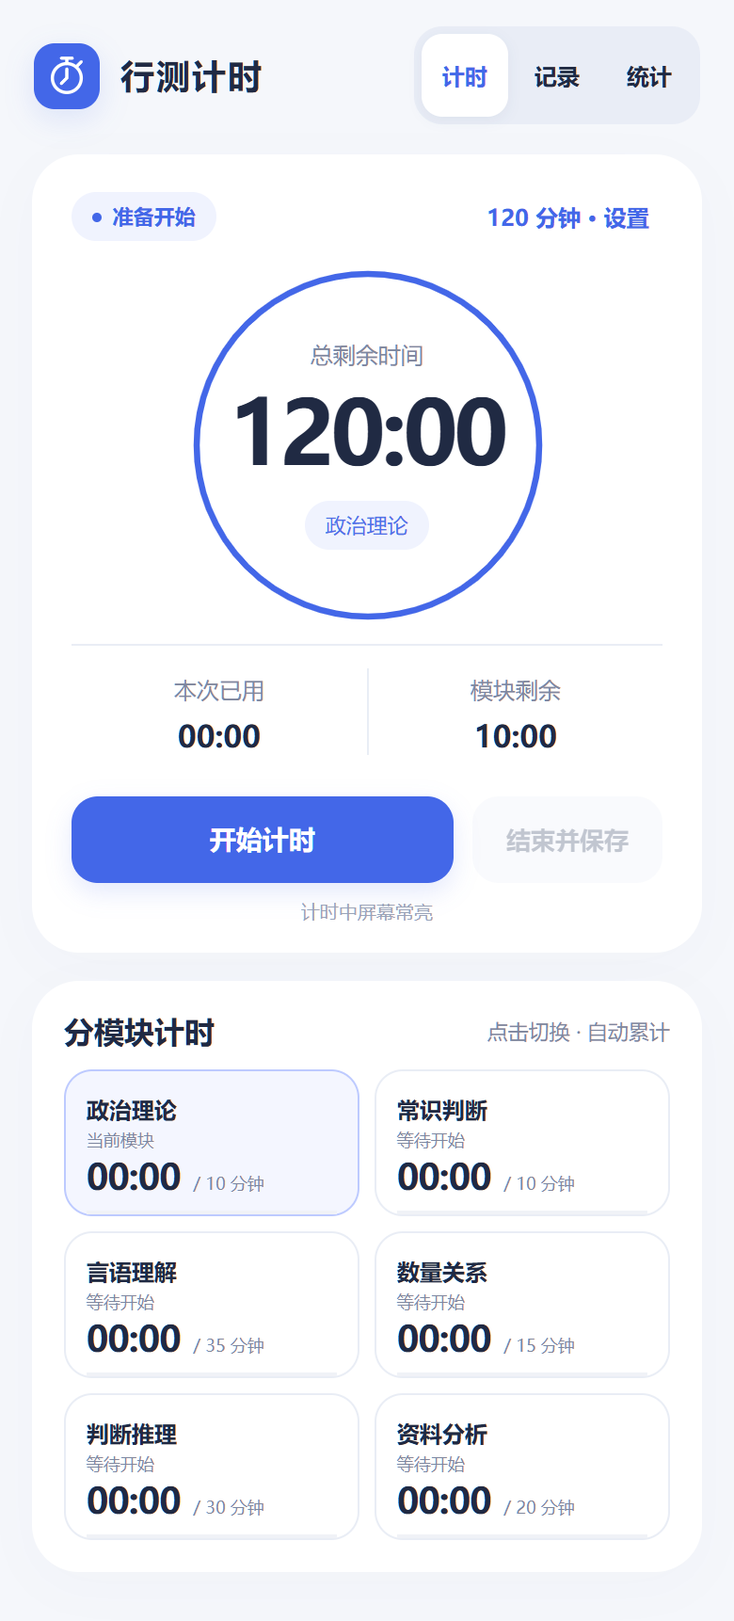
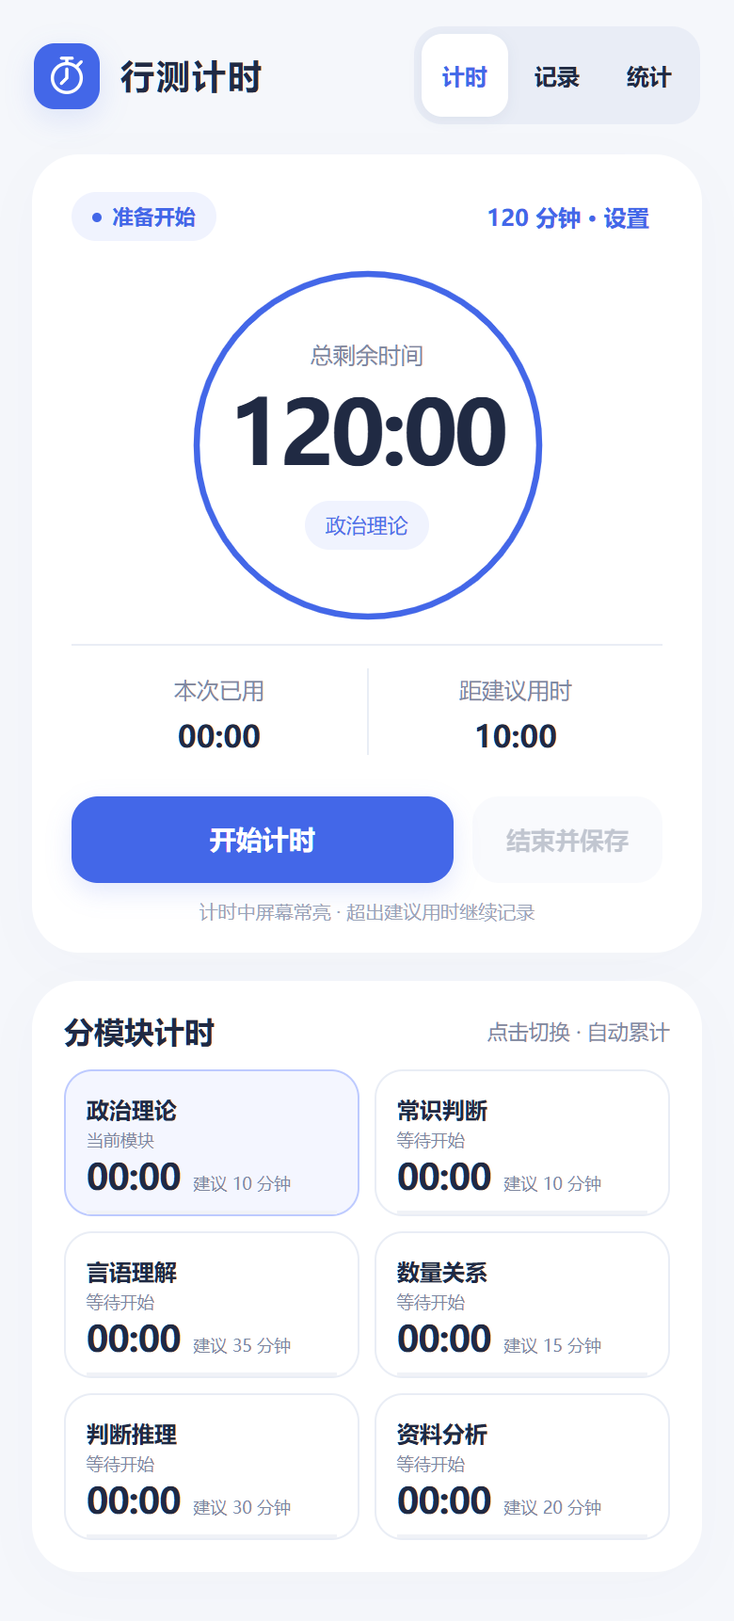
Fix Android safe area, expose history deletion and clarify overtime timing

diff --git a/app/src/main/assets/index.html b/app/src/main/assets/index.html
@@ -6,14 +6,14 @@
 @media(max-width:699px){header{padding:19px 18px 15px}.brand b{font-size:18px}.brand small{font-size:9px}.mark{width:35px;height:35px;border-radius:11px}.nav button{padding:6px 11px;font-size:12px}.nav svg{display:none}main{padding:2px 17px 26px}.page-heading{margin:8px 0 15px}.page-heading h1{font-size:22px}.layout{grid-template-columns:1fr;gap:15px}.timer-card{padding:19px 20px 16px}.dial{width:245px;margin:9px 0 8px}.time{font-size:55px}.timer-bottom{padding:12px 0}.timer-bottom strong{font-size:16px}.hint{margin-top:11px}.modules-card{padding:19px 16px}.section-head{margin-bottom:14px}.module-list{grid-template-columns:repeat(2,minmax(0,1fr));gap:9px}.module{grid-template-columns:1fr auto;padding:12px 11px 11px;gap:4px;min-height:101px}.module .number{display:none}.module b{grid-column:1/-1;font-size:12px}.module small{font-size:9px;margin-top:4px}.module .value{grid-column:1/-1;text-align:left;font-size:21px;margin-top:3px}.module .value small{display:inline;margin-left:7px;font-size:9px}.module .bar{left:11px;right:11px}.chart-layout{grid-template-columns:1fr;gap:15px;padding:25px}.pie-wrap{max-width:230px}.legend-row{padding:12px 0}.stats-summary{gap:10px}.stat{padding:18px}.stat strong{font-size:25px}.detail-meta{gap:22px;padding:20px}.detail-meta strong{font-size:18px}.record{padding:18px}.record .record-time{font-size:21px}.record-right{gap:8px}}
 @media(max-width:350px){header{padding-left:13px;padding-right:13px}.brand small{display:none}.nav button{padding:6px 9px}.brand b{font-size:16px}main{padding-left:12px;padding-right:12px}.time{font-size:50px}.module .value small{display:block;margin-left:0}}
 @media(prefers-reduced-motion:reduce){*{transition:none!important}}
-@media(max-width:699px){header{padding-top:14px;padding-bottom:14px}.brand small{display:none}#timer>.page-heading{display:none}.timer-card{padding:16px 20px 14px}.timer-top .text-button{min-height:32px}.dial{width:195px;height:195px;margin:8px 0}.time{font-size:47px;letter-spacing:-2px}.dial-center .badge{margin-top:8px}.timer-label{margin-bottom:5px}.module{min-height:76px;padding:9px 11px 8px;gap:1px}.module b{font-size:12px}.module .value{font-size:19px;margin-top:1px}.module small{font-size:9px;margin-top:2px}.modules-card{padding:16px}.section-head{margin-bottom:10px}.module-list{gap:8px}.hint{margin-top:9px}}.eyebrow{display:none}.brand small:empty{display:none}</style></head><body>
+@media(max-width:699px){header{padding-top:14px;padding-bottom:14px}.brand small{display:none}#timer>.page-heading{display:none}.timer-card{padding:16px 20px 14px}.timer-top .text-button{min-height:32px}.dial{width:195px;height:195px;margin:8px 0}.time{font-size:47px;letter-spacing:-2px}.dial-center .badge{margin-top:8px}.timer-label{margin-bottom:5px}.module{min-height:76px;padding:9px 11px 8px;gap:1px}.module b{font-size:12px}.module .value{font-size:19px;margin-top:1px}.module small{font-size:9px;margin-top:2px}.modules-card{padding:16px}.section-head{margin-bottom:10px}.module-list{gap:8px}.hint{margin-top:9px}}.eyebrow{display:none}.brand small:empty{display:none}.record-entry{display:grid;grid-template-columns:minmax(0,1fr)44px;align-items:center;background:white;border-radius:18px;padding-right:10px}.record{min-width:0}.record>div:first-child{min-width:0}.record h3{overflow:hidden;text-overflow:ellipsis;white-space:nowrap}.record-right{flex-shrink:0;margin-left:10px}.record-delete{color:var(--red);font-size:12px;min-height:48px;border-radius:10px}.record-delete:active{background:#fff0f3}@media(max-width:350px){.record{padding:15px 12px}.record .record-time{font-size:18px}.record p{font-size:10px}}</style></head><body>
 <header><div class="brand"><div class="mark" id="brand-icon"></div><div><b>行测计时</b><small></small></div></div><nav class="nav" aria-label="主导航"><button data-page="timer" class="active">计时</button><button data-page="history">记录</button><button data-page="stats">统计</button></nav></header>
 <main>
 <section id="timer" class="page active"><div class="page-heading"><div><div class="eyebrow">FOCUS TIMER</div><h1>模考计时</h1></div></div>
 <div class="layout"><div class="card timer-card"><div class="timer-top"><span class="badge" id="status"><i class="dot"></i><span>准备开始</span></span><button class="text-button" id="settings">120 分钟 · 设置</button></div>
 <div class="dial"><svg viewBox="0 0 300 300" aria-hidden="true"><circle class="track" cx="150" cy="150" r="140"/><circle class="progress" id="progress" cx="150" cy="150" r="140" stroke-dasharray="879.646" stroke-dashoffset="0"/></svg><div class="dial-center"><span class="timer-label" id="remaining-label">总剩余时间</span><div class="time" id="remaining">120:00</div><span class="badge" id="current-module">政治理论</span></div></div>
-<div class="timer-bottom"><div><span class="sub">本次已用</span><strong id="elapsed">00:00</strong></div><div><span class="sub" id="module-label">模块剩余</span><strong id="module-remaining">10:00</strong></div></div>
-<div class="controls"><button id="toggle" class="primary">开始计时</button><button id="finish" class="secondary" disabled>结束并保存</button></div><div class="hint" id="screen-hint">计时中屏幕常亮</div></div>
+<div class="timer-bottom"><div><span class="sub">本次已用</span><strong id="elapsed">00:00</strong></div><div><span class="sub" id="module-label">距建议用时</span><strong id="module-remaining">10:00</strong></div></div>
+<div class="controls"><button id="toggle" class="primary">开始计时</button><button id="finish" class="secondary" disabled>结束并保存</button></div><div class="hint" id="screen-hint">计时中屏幕常亮 · 超出建议用时继续记录</div></div>
 <div class="card modules-card"><div class="section-head"><h2>分模块计时</h2><span>点击切换 · 自动累计</span></div><div class="module-list" id="modules"></div></div></div></section>
 <section id="history" class="page"><div class="page-heading"><div><div class="eyebrow">YOUR SESSIONS</div><h1>做题记录</h1></div><span class="sub" id="history-count"></span></div><div id="records"></div></section>
 <section id="stats" class="page"><div class="page-heading"><div><div class="eyebrow">TIME INSIGHTS</div><h1>用时统计</h1></div></div><div id="stats-content"></div></section>
@@ -58,12 +58,12 @@ document.querySelectorAll('[data-module]').forEach(e=>e.onclick=()=>action('sele
 function refresh(){
  const s=read(),spent=sum(s.spent),remaining=sum(s.budgets)-spent,m=s.budgets[s.active]-s.spent[s.active];
  $('remaining').textContent=fmt(Math.abs(remaining),remaining>=0);$('remaining').classList.toggle('overtime',remaining<0);$('remaining-label').textContent=remaining<0?'总超时时间':'总剩余时间';
- $('elapsed').textContent=fmt(spent);$('module-remaining').textContent=fmt(Math.abs(m),m>=0);$('module-remaining').classList.toggle('overtime',m<0);$('module-label').textContent=m<0?'模块超时':'模块剩余';
+ $('elapsed').textContent=fmt(spent);$('module-remaining').textContent=fmt(Math.abs(m),m>=0);$('module-remaining').classList.toggle('overtime',m<0);$('module-label').textContent=m<0?'超出建议用时':'距建议用时';
  $('current-module').textContent=names[s.active];$('current-module').style.color=colors[s.active];
  $('progress').style.strokeDashoffset=879.646*Math.min(1,Math.max(0,spent/sum(s.budgets)));$('progress').style.stroke=remaining<0?'var(--red)':'var(--blue)';
  $('status').classList.toggle('running',s.running);$('status').lastElementChild.textContent=s.running?'专注计时中':s.startedAt?'已暂停':'准备开始';
  $('toggle').textContent=s.running?'暂停计时':s.startedAt?'继续计时':'开始计时';$('finish').disabled=!s.startedAt;$('settings').textContent=`${sum(s.budgets)/60000} 分钟 · 设置`;$('settings').disabled=!!s.startedAt;
- names.forEach((n,i)=>{const selected=s.active===i;const el=document.querySelector(`[data-module="${i}"]`);el.classList.toggle('selected',selected);el.setAttribute('aria-pressed',String(selected));$('time-'+i).textContent=fmt(s.spent[i]);$('budget-'+i).textContent=`/ ${s.budgets[i]/60000} 分钟`;$('bar-'+i).style.width=Math.min(100,s.spent[i]/s.budgets[i]*100)+'%';$('module-state-'+i).textContent=selected?(s.running?'正在计时':s.startedAt?'当前模块 · 已暂停':'当前模块'):s.spent[i]>0?'已记录 · 可继续':'等待开始';$('time-'+i).classList.toggle('overtime',s.spent[i]>s.budgets[i]);});
+ names.forEach((n,i)=>{const selected=s.active===i;const el=document.querySelector(`[data-module="${i}"]`);el.classList.toggle('selected',selected);el.setAttribute('aria-pressed',String(selected));$('time-'+i).textContent=fmt(s.spent[i]);$('budget-'+i).textContent=`建议 ${s.budgets[i]/60000} 分钟`;$('bar-'+i).style.width=Math.min(100,s.spent[i]/s.budgets[i]*100)+'%';$('module-state-'+i).textContent=selected?(s.running?'正在计时':s.startedAt?'当前模块 · 已暂停':'当前模块'):s.spent[i]>0?'已记录 · 可继续':'等待开始';$('time-'+i).classList.toggle('overtime',s.spent[i]>s.budgets[i]);});
 }
 $('toggle').onclick=()=>action(read().running?'pause':'start');
 let lastFocus=null;
@@ -79,7 +79,7 @@ $('finish').onclick=()=>{
 function allocate(total){const ratios=[10,10,35,15,30,20],base=ratios.map(r=>Math.max(1,Math.floor(total*r/120)));let delta=total-sum(base);while(delta>0){for(let i of [2,4,5,3,0,1])if(delta>0){base[i]++;delta--}}while(delta<0){let k=base.indexOf(Math.max(...base));base[k]--;delta++}return base}
 $('settings').onclick=()=>{
  const s=read();if(s.startedAt)return;
- dialog(`<h2 id="dialog-title">设置练习时间</h2><p>总时长与六个模块的目标时长，可自由调整。</p><div class="preset"><button id="preset120">120 分钟</button><button id="preset90">90 分钟</button></div><label>总时长（分钟）<input type="number" inputmode="numeric" id="total-input" min="6" max="600" value="${sum(s.budgets)/60000}"></label><div class="budget-fields">${names.map((n,i)=>`<label>${n}<input type="number" inputmode="numeric" class="budget-input" min="1" max="600" value="${s.budgets[i]/60000}" aria-label="${n}目标分钟"></label>`).join('')}</div><div class="budget-error" id="budget-error" role="status"></div><div class="actions"><button class="secondary" id="cancel-settings">取消</button><button class="primary" id="save-settings">保存设置</button></div>`);
+ dialog(`<h2 id="dialog-title">设置练习时间</h2><p>模块时间仅作建议，超出后仍会继续记录，不会自动结束。</p><div class="preset"><button id="preset120">120 分钟</button><button id="preset90">90 分钟</button></div><label>总时长（分钟）<input type="number" inputmode="numeric" id="total-input" min="6" max="600" value="${sum(s.budgets)/60000}"></label><div class="budget-fields">${names.map((n,i)=>`<label>${n}<input type="number" inputmode="numeric" class="budget-input" min="1" max="600" value="${s.budgets[i]/60000}" aria-label="${n}建议分钟"></label>`).join('')}</div><div class="budget-error" id="budget-error" role="status"></div><div class="actions"><button class="secondary" id="cancel-settings">取消</button><button class="primary" id="save-settings">保存设置</button></div>`);
  const inputs=()=>[...document.querySelectorAll('.budget-input')];
  function validate(){const total=Number($('total-input').value),vals=inputs().map(e=>Number(e.value)),valid=Number.isInteger(total)&&total>=6&&total<=600&&vals.every(v=>Number.isInteger(v)&&v>=1&&v<=600)&&sum(vals)===total;$('save-settings').disabled=!valid;$('budget-error').textContent=valid?'':`各模块合计 ${sum(vals)} 分钟，须与总时长一致（6–600 分钟）`;return valid}
  function setTotal(n){if(Number.isInteger(n)&&n>=6&&n<=600){$('total-input').value=n;allocate(n).forEach((v,i)=>inputs()[i].value=v)}validate()}
@@ -87,12 +87,18 @@ $('settings').onclick=()=>{
 };
 function empty(title,text){return `<div class="card empty"><div class="empty-icon">${clockIcon}</div><h2>${title}</h2><p>${text}</p><button class="text-button" id="go-timer">开始一次练习 →</button></div>`}
 function attachEmpty(){if($('go-timer'))$('go-timer').onclick=()=>page('timer')}
-function renderHistory(){const rows=history();$('history-count').textContent=`${rows.length} 次练习`;$('records').innerHTML=rows.length?`<div class="record-list">${rows.map(r=>`<button class="record" data-record="${escapeHtml(r.id)}"><div><h3>${escapeHtml(r.title)}</h3><p>${dateText(r.date)} · 目标 ${sum(r.budgets)/60000} 分钟</p></div><div class="record-right"><div><div class="record-time">${fmt(sum(r.spent))}</div><em>查看用时分布</em></div><span style="color:#b0bbcf">›</span></div></button>`).join('')}</div>`:empty('还没有练习记录','结束并保存一次计时后，<br>你的每一分投入都会留在这里。');document.querySelectorAll('[data-record]').forEach(e=>e.onclick=()=>showDetail(e.dataset.record));attachEmpty()}
+function renderHistory(){
+ const rows=history();$('history-count').textContent=`${rows.length} 次练习`;
+ $('records').innerHTML=rows.length?`<div class="record-list">${rows.map(r=>`<div class="record-entry"><button class="record" data-record="${escapeHtml(r.id)}"><div><h3>${escapeHtml(r.title)}</h3><p>${dateText(r.date)} · 目标 ${sum(r.budgets)/60000} 分钟</p></div><div class="record-right"><div><div class="record-time">${fmt(sum(r.spent))}</div><em>查看用时分布</em></div></div></button><button class="record-delete" data-delete="${escapeHtml(r.id)}" aria-label="删除记录：${escapeHtml(r.title)}">删除</button></div>`).join('')}</div>`:empty('还没有练习记录','结束并保存一次计时后，<br>你的每一分投入都会留在这里。');
+ document.querySelectorAll('[data-record]').forEach(e=>e.onclick=()=>showDetail(e.dataset.record));
+ document.querySelectorAll('[data-delete]').forEach(e=>e.onclick=()=>deleteRecord(e.dataset.delete));attachEmpty();
+}
+function deleteRecord(id){confirmDialog('删除这条记录？','删除后无法恢复，平均用时统计会同步更新。','删除',()=>{if(action('delete',id)){page('history');toast('记录已删除')}})}
 function pie(values){const total=sum(values);if(total<=0)return '<div class="no-data">本次暂无可统计用时</div>';let angle=-Math.PI/2;let paths='';values.forEach((v,i)=>{if(!v)return;const a=angle;angle+=v/total*Math.PI*2;const x=130+106*Math.cos(a),y=130+106*Math.sin(a),ex=130+106*Math.cos(angle),ey=130+106*Math.sin(angle);paths+=v===total?`<circle cx="130" cy="130" r="106" fill="${colors[i]}"><title>${names[i]} ${fmt(v)}</title></circle>`:`<path d="M130 130 L${x} ${y} A106 106 0 ${v/total>.5?1:0} 1 ${ex} ${ey} Z" fill="${colors[i]}" stroke="white" stroke-width="2"><title>${names[i]} ${fmt(v)} · ${(v/total*100).toFixed(1)}%</title></path>`});return `<div class="pie-wrap"><svg viewBox="0 0 260 260" role="img" aria-label="六模块实际用时扇形图">${paths}</svg></div>`}
 function chart(values){const total=sum(values);return `<div class="chart-layout">${pie(values)}<div class="legend">${names.map((n,i)=>`<div class="legend-row"><span class="legend-name"><i class="swatch" style="background:${colors[i]}"></i>${n}</span><span><b>${fmt(values[i])}</b><small>${total?(values[i]/total*100).toFixed(1):'0.0'}%</small></span></div>`).join('')}</div></div>`}
 function renderStats(){const rows=history();if(!rows.length){$('stats-content').innerHTML=empty('用时间，了解自己','保存练习记录后，<br>在这里查看六个模块的平均用时分布。');attachEmpty();return}const avg=names.map((_,i)=>rows.reduce((n,r)=>n+r.spent[i],0)/rows.length);$('stats-content').innerHTML=`<div class="stats-summary"><div class="card stat"><span class="sub">累计练习</span><strong>${rows.length}<small>次</small></strong></div><div class="card stat"><span class="sub">单次平均总用时</span><strong>${fmt(sum(avg))}</strong></div></div><div class="card chart-card"><h2>各模块平均用时</h2>${chart(avg)}<p class="chart-note">按全部 ${rows.length} 次已保存记录计算；未练习的模块按 0 计入平均。时间格式为 分:秒。</p></div>`}
-function showDetail(id){detailId=id;const r=history().find(x=>x.id===id);if(!r){page('history');return}page('detail');$('detail-title').textContent=r.title;$('detail-date').textContent=dateText(r.date);const elapsed=sum(r.spent),target=sum(r.budgets);$('detail-content').innerHTML=`<div class="card chart-card"><div class="detail-meta"><div><span class="sub">实际用时</span><strong>${fmt(elapsed)}</strong></div><div><span class="sub">目标时长</span><strong>${target/60000}<span class="sub"> 分钟</span></strong></div><div><span class="sub">${elapsed>target?'超时':'剩余'}</span><strong class="${elapsed>target?'overtime':''}">${fmt(Math.abs(target-elapsed))}</strong></div></div><h2>本次用时分布</h2>${chart(r.spent)}<p class="chart-note">${names.map((n,i)=>`${n}目标 ${r.budgets[i]/60000} 分钟`).join(' · ')}<br>时间格式为 分:秒，暂停时间不计入。</p></div>`}
-$('back-history').onclick=()=>page('history');$('delete-record').onclick=()=>confirmDialog('删除这条记录？','删除后无法恢复，平均用时统计会同步更新。','删除',()=>{if(action('delete',detailId)){page('history');toast('记录已删除')}});
+function showDetail(id){detailId=id;const r=history().find(x=>x.id===id);if(!r){page('history');return}page('detail');$('detail-title').textContent=r.title;$('detail-date').textContent=dateText(r.date);const elapsed=sum(r.spent),target=sum(r.budgets);$('detail-content').innerHTML=`<div class="card chart-card"><div class="detail-meta"><div><span class="sub">实际用时</span><strong>${fmt(elapsed)}</strong></div><div><span class="sub">目标时长</span><strong>${target/60000}<span class="sub"> 分钟</span></strong></div><div><span class="sub">${elapsed>target?'超时':'剩余'}</span><strong class="${elapsed>target?'overtime':''}">${fmt(Math.abs(target-elapsed))}</strong></div></div><h2>本次用时分布</h2>${chart(r.spent)}<p class="chart-note">${names.map((n,i)=>`${n}建议 ${r.budgets[i]/60000} 分钟`).join(' · ')}<br>时间格式为 分:秒，暂停时间不计入。</p></div>`}
+$('back-history').onclick=()=>page('history');$('delete-record').onclick=()=>deleteRecord(detailId);
 window.handleBack=()=>{if($('overlay').classList.contains('open')){closeDialog();return}if(currentPage==='detail'){page('history');return}if(currentPage!=='timer'){page('timer');return}if(native)Native.minimize()};
 document.addEventListener('keydown',e=>{if(e.key==='Escape')window.handleBack();if(e.key==='Tab'&&$('overlay').classList.contains('open')){const f=[...$('dialog').querySelectorAll('button:not(:disabled),input')];if(e.shiftKey&&document.activeElement===f[0]){e.preventDefault();f[f.length-1].focus()}else if(!e.shiftKey&&document.activeElement===f[f.length-1]){e.preventDefault();f[0].focus()}}});
 refresh();setInterval(refresh,250);

diff --git a/app/src/test/java/cn/xingce/timer/SafeAreaTest.java b/app/src/test/java/cn/xingce/timer/SafeAreaTest.java
@@ -1,0 +1,69 @@
+package cn.xingce.timer;
+
+import android.graphics.Insets;
+import android.view.View;
+import android.view.ViewGroup;
+import android.view.WindowInsets;
+import android.webkit.WebView;
+import android.widget.FrameLayout;
+import org.junit.Test;
+import org.junit.runner.RunWith;
+import org.robolectric.Robolectric;
+import org.robolectric.RobolectricTestRunner;
+import org.robolectric.annotation.Config;
+import static org.junit.Assert.*;
+
+@RunWith(RobolectricTestRunner.class)
+@Config(sdk = 35)
+public class SafeAreaTest {
+    @Test public void webContentStaysInsideBarsCutoutsAndKeyboard() {
+        try (org.robolectric.android.controller.ActivityController<MainActivity> controller =
+                     Robolectric.buildActivity(MainActivity.class).setup()) {
+            MainActivity activity = controller.get();
+            ViewGroup content = activity.findViewById(android.R.id.content);
+            ViewGroup root = (ViewGroup) content.getChildAt(0);
+            WebView web = (WebView) root.getChildAt(0);
+            // Robolectric's WebView provider stubs setFrame. A normal native view
+            // with identical params verifies position, while the actual WebView
+            // verifies that its measured viewport excludes the unsafe area.
+            View probe = new View(activity);
+            root.addView(probe, new FrameLayout.LayoutParams(-1, -1));
+            // Isolate the container from the test window's queued layout traversal.
+            content.removeView(root);
+            // Portrait: the cutout is taller than the status bar (dynamic island).
+            check(root, web, 1080, 2400, Insets.of(0, 80, 0, 0),
+                    Insets.of(0, 132, 0, 0), Insets.of(0, 0, 0, 72), Insets.NONE,
+                    0, 132, 1080, 2328);
+            // Landscape: the camera cutout occupies the left edge.
+            check(root, web, 2400, 1080, Insets.of(0, 60, 0, 0),
+                    Insets.of(132, 0, 0, 0), Insets.of(0, 0, 72, 0), Insets.NONE,
+                    132, 60, 2328, 1080);
+            // Keyboard: settings / record-name inputs must stay above the IME.
+            check(root, web, 1080, 2400, Insets.of(0, 80, 0, 0),
+                    Insets.NONE, Insets.of(0, 0, 0, 72), Insets.of(0, 0, 0, 900),
+                    0, 80, 1080, 1500);
+        }
+    }
+
+    private void check(ViewGroup root, WebView web, int width, int height,
+                       Insets status, Insets cutout, Insets navigation, Insets keyboard,
+                       int left, int top, int right, int bottom) {
+        WindowInsets insets = new WindowInsets.Builder()
+                .setInsetsIgnoringVisibility(WindowInsets.Type.statusBars(), status)
+                .setInsetsIgnoringVisibility(WindowInsets.Type.displayCutout(), cutout)
+                .setInsetsIgnoringVisibility(WindowInsets.Type.navigationBars(), navigation)
+                .setInsets(WindowInsets.Type.ime(), keyboard).build();
+        assertTrue(root.dispatchApplyWindowInsets(insets).isConsumed());
+        assertEquals("native top padding; source=" + insets.getInsetsIgnoringVisibility(WindowInsets.Type.systemBars() | WindowInsets.Type.displayCutout()), top, root.getPaddingTop());
+        root.measure(View.MeasureSpec.makeMeasureSpec(width, View.MeasureSpec.EXACTLY),
+                View.MeasureSpec.makeMeasureSpec(height, View.MeasureSpec.EXACTLY));
+        root.layout(0, 0, width, height);
+        View probe = root.getChildAt(1);
+        assertEquals(left, probe.getLeft());
+        assertEquals(top, probe.getTop());
+        assertEquals(right, probe.getRight());
+        assertEquals(bottom, probe.getBottom());
+        assertEquals(right-left, web.getMeasuredWidth());
+        assertEquals(bottom-top, web.getMeasuredHeight());
+    }
+}

diff --git a/app/src/main/java/cn/xingce/timer/MainActivity.java b/app/src/main/java/cn/xingce/timer/MainActivity.java
@@ -8,6 +8,7 @@ import android.media.*;
 import android.provider.Settings;
 import android.view.*;
 import android.webkit.*;
+import android.widget.FrameLayout;
 import org.json.*;
 import java.util.UUID;
 
@@ -38,6 +39,7 @@ public class MainActivity extends Activity {
     }};
     @Override public void onCreate(Bundle state) {
         super.onCreate(state);
+        if(Build.VERSION.SDK_INT>=30) getWindow().setDecorFitsSystemWindows(false);
         bridge=new Bridge();
         try { tone=new ToneGenerator(AudioManager.STREAM_NOTIFICATION,85); } catch(RuntimeException ignored){}
         web=new WebView(this);
@@ -51,15 +53,23 @@ public class MainActivity extends Activity {
             @Override public boolean shouldOverrideUrlLoading(WebView view,WebResourceRequest request){return true;}
         });
         web.addJavascriptInterface(bridge,"Native");
-        setContentView(web);
-        // Target 35 uses edge-to-edge. Explicit insets preserve status/navigation areas.
-        web.setOnApplyWindowInsetsListener((v,insets)->{
+        // WebView does not reliably inset HTML when padding is applied directly to it.
+        // A native parent must measure the entire browser inside the safe rectangle.
+        FrameLayout safeArea=new FrameLayout(this);
+        safeArea.setBackgroundColor(Color.rgb(245,247,251));
+        safeArea.addView(web,new FrameLayout.LayoutParams(-1,-1));
+        safeArea.setOnApplyWindowInsetsListener((v,insets)->{
             if(Build.VERSION.SDK_INT>=30) {
-                android.graphics.Insets bars=insets.getInsets(WindowInsets.Type.systemBars()|WindowInsets.Type.displayCutout());
-                v.setPadding(bars.left,bars.top,bars.right,bars.bottom);
-            } else v.setPadding(insets.getSystemWindowInsetLeft(),insets.getSystemWindowInsetTop(),insets.getSystemWindowInsetRight(),insets.getSystemWindowInsetBottom());
-            return insets;
+                android.graphics.Insets bars=insets.getInsetsIgnoringVisibility(WindowInsets.Type.systemBars()|WindowInsets.Type.displayCutout());
+                android.graphics.Insets keyboard=insets.getInsets(WindowInsets.Type.ime());
+                v.setPadding(bars.left,bars.top,bars.right,Math.max(bars.bottom,keyboard.bottom));
+                return WindowInsets.CONSUMED;
+            }
+            v.setPadding(insets.getSystemWindowInsetLeft(),insets.getSystemWindowInsetTop(),insets.getSystemWindowInsetRight(),insets.getSystemWindowInsetBottom());
+            return insets.consumeSystemWindowInsets();
         });
+        setContentView(safeArea);
+        safeArea.requestApplyInsets();
         web.loadUrl("file:///android_asset/index.html");
         updateScreen(); handler.post(tick);
     }

diff --git a/tests/TimerEngineTest.java b/tests/TimerEngineTest.java
@@ -6,6 +6,12 @@ public class TimerEngineTest {
     public static void main(String[] args){
         TimerEngine e=new TimerEngine(()->now);
         check(e.totalBudget()==7200000,"default 120 minutes");
+        e.start(100000);now+=660000;
+        check(e.running&&e.times()[0]==660000&&e.elapsed()<e.totalBudget(),"module suggestion exceeded without stopping");
+        e.select(1);now+=2000;e.select(0);now+=3000;
+        check(e.times()[0]==663000&&e.times()[1]==2000,"overtime survives module switches");
+        e.pause();now+=5000;check(e.times()[0]==663000,"overtime pause excludes idle time");
+        e.reset();now=0;
         e.start(100000);now+=1200;e.select(1);now+=2300;
         check(Arrays.equals(e.times(),new long[]{1200,2300,0,0,0,0}),"switch allocates each segment exactly");
         e.pause();now+=500000;check(e.elapsed()==3500,"pause excludes elapsed time");

diff --git a/docs/使用说明.md b/docs/使用说明.md
@@ -1,18 +1,18 @@
-# 行测计时 1.0.1
+# 行测计时 1.0.2
 
 一个离线的安卓行测计时工具。支持 Android 8.0 及以上，适配手机、平板和横竖屏。无需账号、无需联网，无广告。
 
 ## 安装
 
-将「行测计时-v1.0.1.apk」发送到安卓设备，在文件管理器中打开，按系统提示允许该来源安装，然后安装。
+将「行测计时-v1.0.2.apk」发送到安卓设备，在文件管理器中打开，按系统提示允许该来源安装，然后安装。
 
 ## 使用
 
-1. 点击「120 分钟 · 设置」：选择 120/90 分钟，或输入 6–600 分钟的总时长。更改总时长会按比例分配模块时间，之后可分别调整六个模块的目标分钟数；六项之和须等于总时长。
+1. 点击「120 分钟 · 设置」：选择 120/90 分钟，或输入 6–600 分钟的总时长。更改总时长会按比例分配模块时间，之后可分别调整六个模块的建议分钟数；六项之和须等于总时长。
 2. 选择政治理论、常识判断、言语理解、数量关系、判断推理或资料分析，点击「开始计时」。
-3. 点击其他模块立即切换。每个模块独立累计用时，切回来会继续累计；总计时不因切换中断。中央显示总剩余，下方显示当前模块剩余，模块卡片显示已用时间。
+3. 点击其他模块立即切换。每个模块独立累计用时，切回来会继续累计；总计时不因切换中断。中央显示总剩余，下方显示距离建议用时的剩余时间，超时后显示已超出的时间，模块卡片显示已用时间。
 4. 点击「暂停计时」/「继续计时」。暂停时间不计入用时；计时运行且应用显示在前台时，屏幕保持常亮。
-5. 点击「结束并保存」，应用先暂停，再填写可选名称并保存。记录页可打开任一次练习，查看各模块用时、占比及扇形图；统计页查看全部记录的平均用时扇形图。
+5. 点击「结束并保存」，应用先暂停，再填写可选名称并保存。记录列表右侧可直接点击「删除」，确认后删除该条记录；也可打开任一次练习，查看各模块用时、占比及扇形图；统计页查看全部记录的平均用时扇形图。
 
 ## 计时与数据规则
 
@@ -25,11 +25,7 @@
 
 ## 验证情况
 
-已完成正式 Release APK 构建、签名校验、安卓 Lint 检查，以及计时引擎与界面自动化测试。布局检查覆盖 320、390、600、1280 像素宽度。截图为浏览器界面预览，统计示例使用模拟数据；安装包内没有预置练习记录。
+已完成正式 Release APK 构建、签名校验、安卓 Lint 检查，以及计时引擎与界面自动化测试。新增安卓原生布局回归测试，检查状态栏、挖孔、横屏侧边安全区及键盘区域，确保整个网页内容位于安全区域内。布局检查覆盖 320、390、600、1280 像素宽度。截图为浏览器界面预览，统计示例使用模拟数据；安装包内没有预置练习记录。
 
 本次没有连接安卓真机或模拟器，尚未进行设备上的安装、屏幕常亮和厂商后台策略实测。
-
-## 源码
-
-公开源码见本仓库。正式发布签名文件不包含在仓库中。
 

diff --git a/README.md b/README.md
@@ -8,9 +8,9 @@
 
 - 自定义总倒计时，支持 90 / 120 分钟预设。
 - 政治理论、常识判断、言语理解、数量关系、判断推理、资料分析六模块独立统计。
-- 点击模块切换，切回后继续累计，显示当前模块剩余时间。
+- 点击模块切换，切回后继续累计；模块时间仅作建议，超出后显示超时并继续记录。
 - 暂停、继续、到时提示与超时记录。
-- 本地保存历史，按次查看用时扇形图，查看六模块平均用时扇形图。
+- 本地保存历史，列表直接删除并确认；按次查看用时扇形图，查看六模块平均用时扇形图。
 - 计时运行且应用在前台时保持屏幕常亮。
 - 无需账号、无广告、无联网权限。
 
@@ -19,6 +19,8 @@
 <table><tr><td><img src="docs/screenshots/phone.png" alt="手机计时界面" width="280"></td><td><img src="docs/screenshots/statistics.png" alt="平均用时统计示例" width="280"></td></tr></table>
 
 [平板界面](docs/screenshots/tablet.png)。截图为浏览器界面预览，统计图使用示例数据，安装包没有预置做题记录。
+
+[记录删除界面](docs/screenshots/history.png)
 
 ## 安装
 
@@ -50,6 +52,14 @@ New-Item -ItemType Directory -Force test-classes
 javac -encoding UTF-8 -d test-classes app/src/main/java/cn/xingce/timer/TimerEngine.java tests/TimerEngineTest.java
 java -cp test-classes TimerEngineTest
 ```
+
+安卓原生安全区域回归测试：
+
+```powershell
+.\gradlew.bat :app:testDebugUnitTest
+```
+
+使用 Robolectric 在 Android 15 环境验证 WebView 的实际布局边界，覆盖状态栏、大挖孔、横屏侧边挖孔和软键盘。测试依赖仅用于构建，不打入 APK。
 
 ## 计时规则与验证
 
